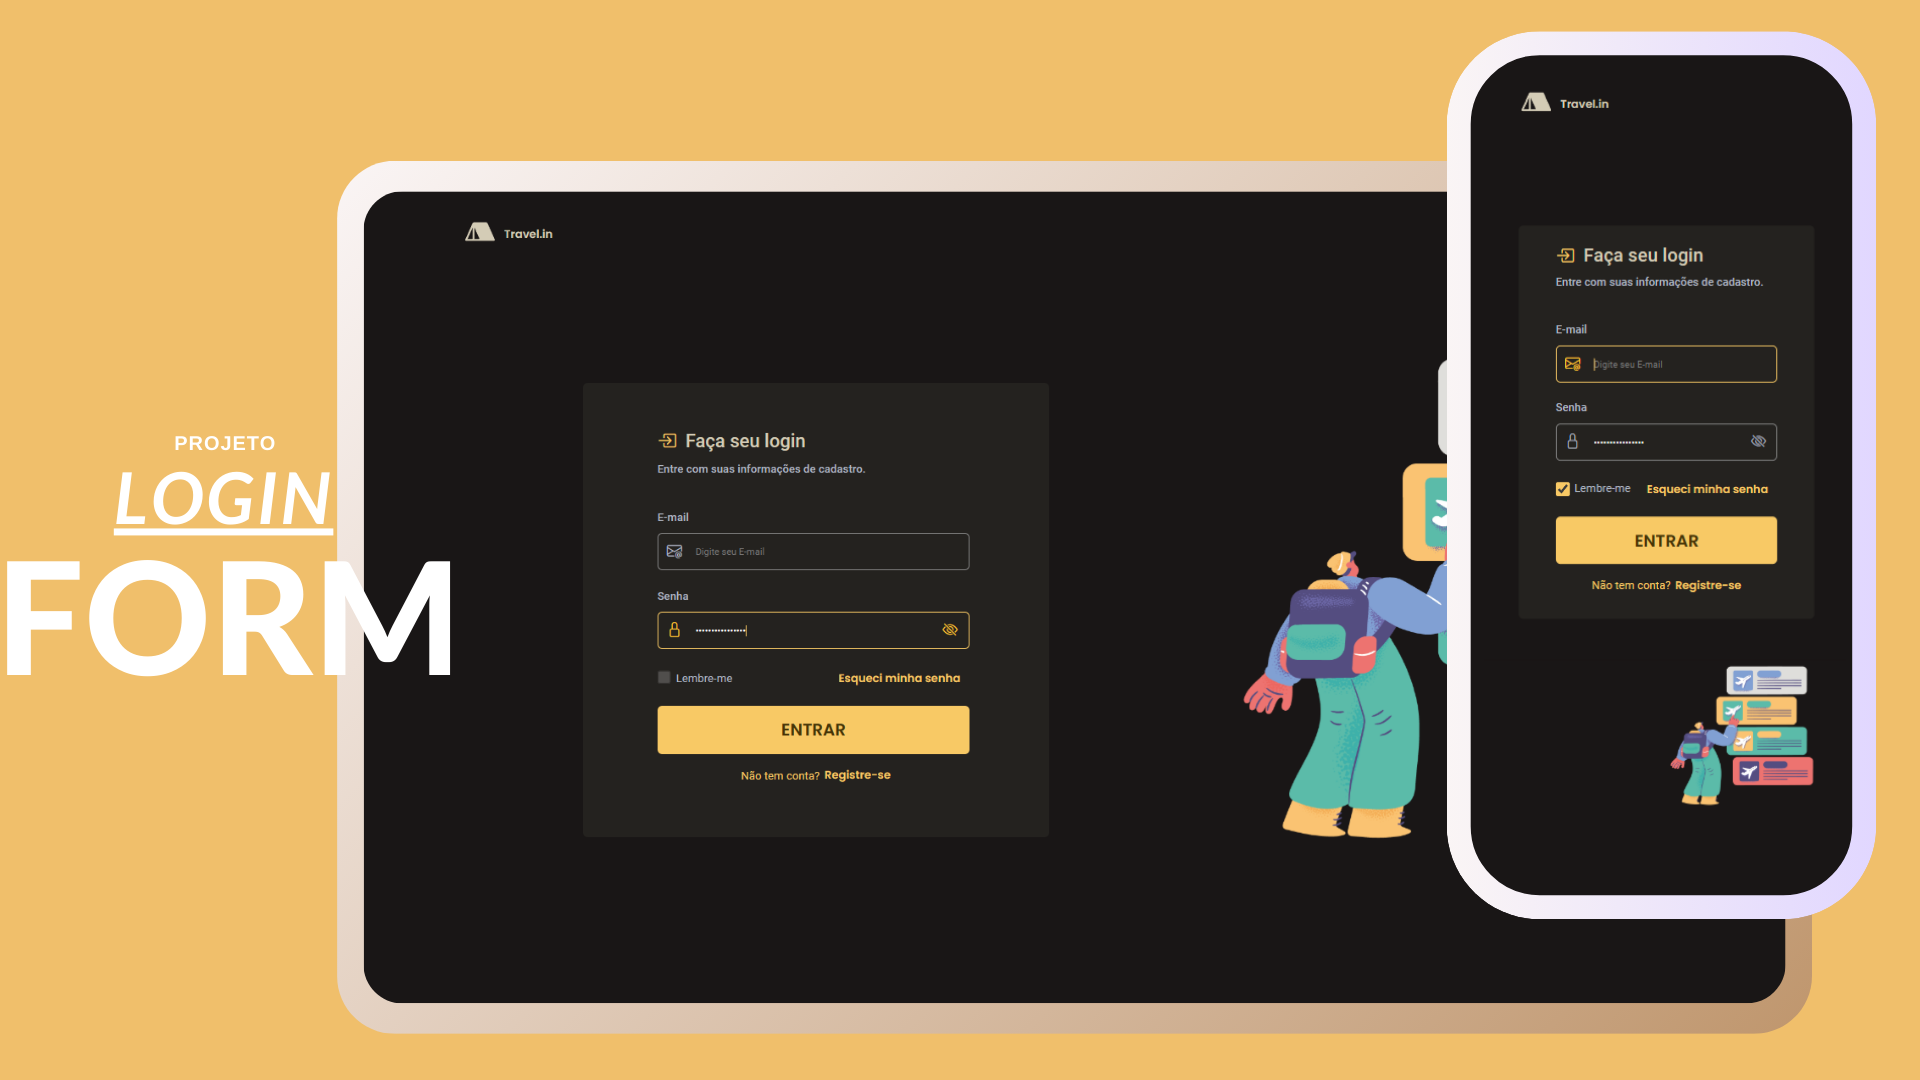
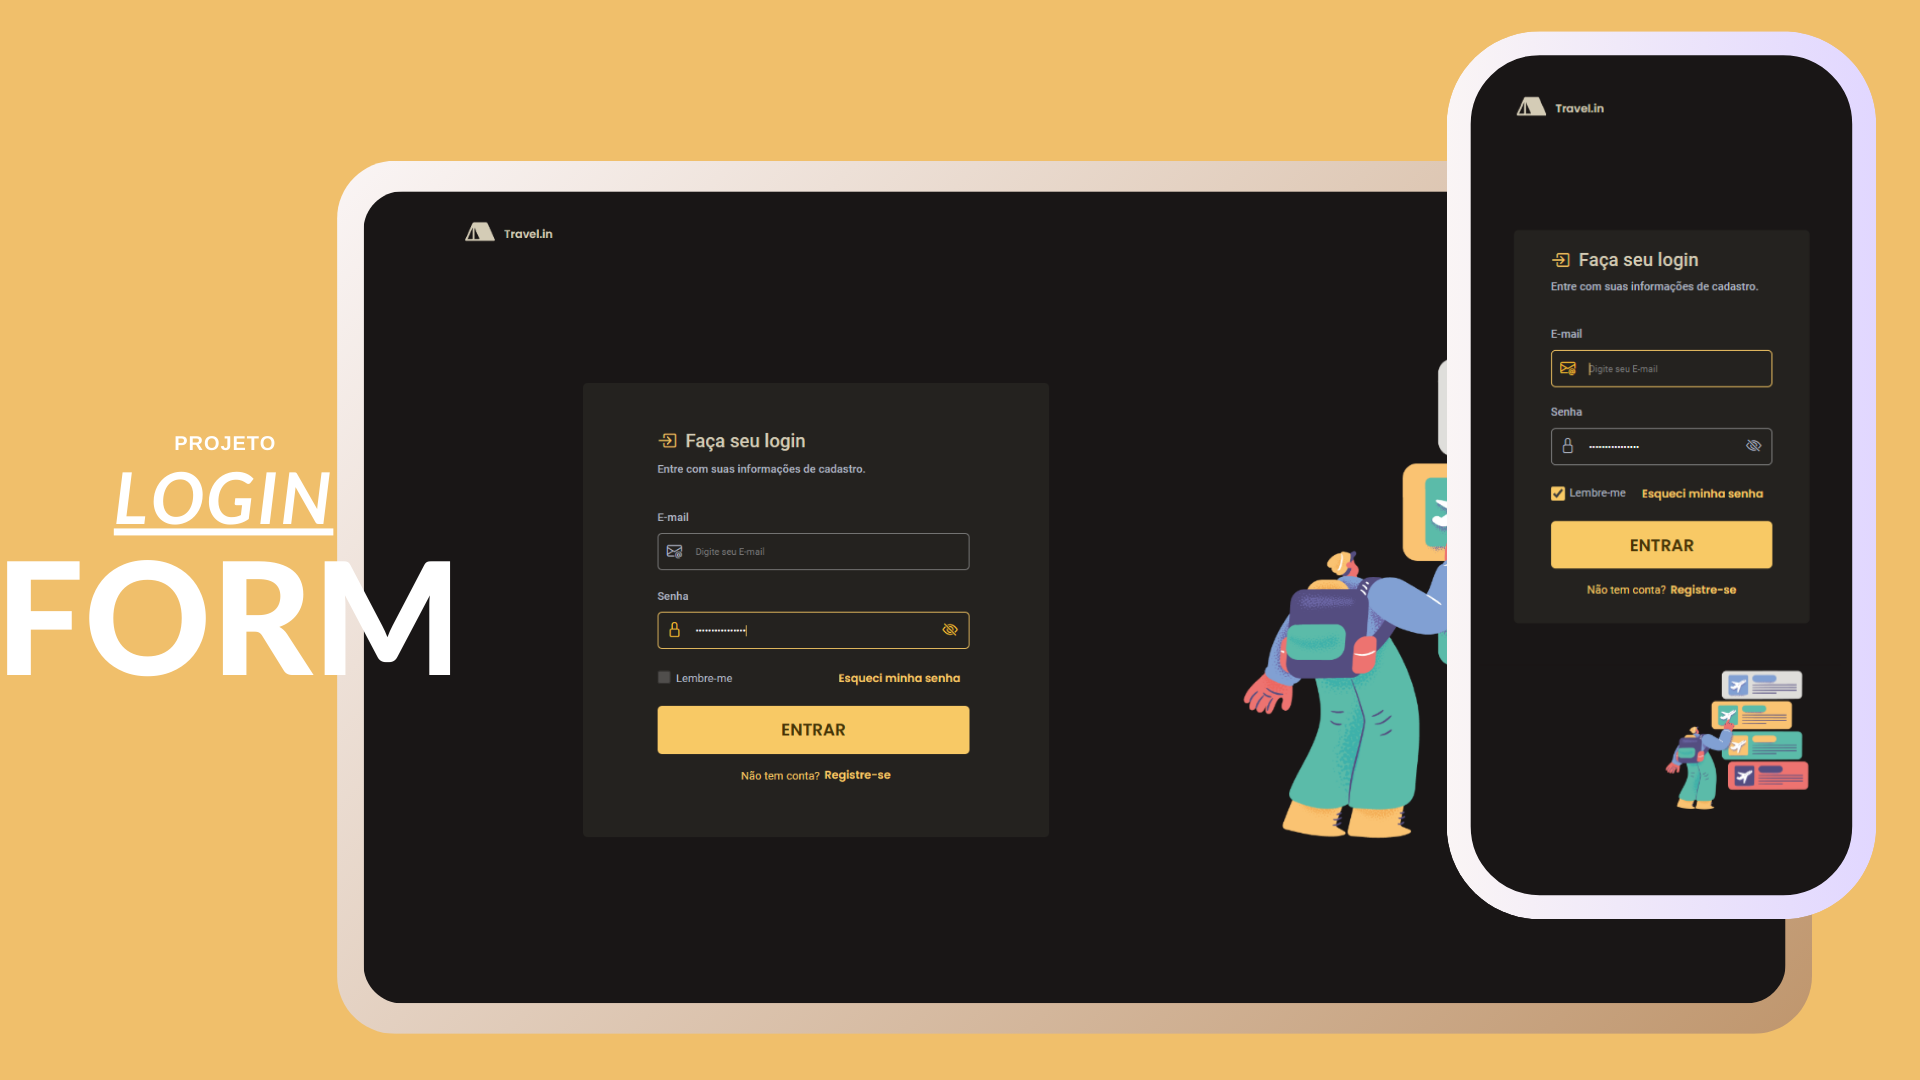
adjusting @media elements

diff --git a/style.css b/style.css
@@ -337,7 +337,7 @@ main{
     }
     section {
         padding: 10px 40px;
-        margin: 45% 10% 10%;
+        margin: 30% 10% 10%;
 
     }
     
@@ -358,7 +358,7 @@ main{
 
     main{
     
-        height: 30vh;    
+        height: 35vh;    
         border: none;
         background-size: 60% 60% ;
         margin-right: 0;
